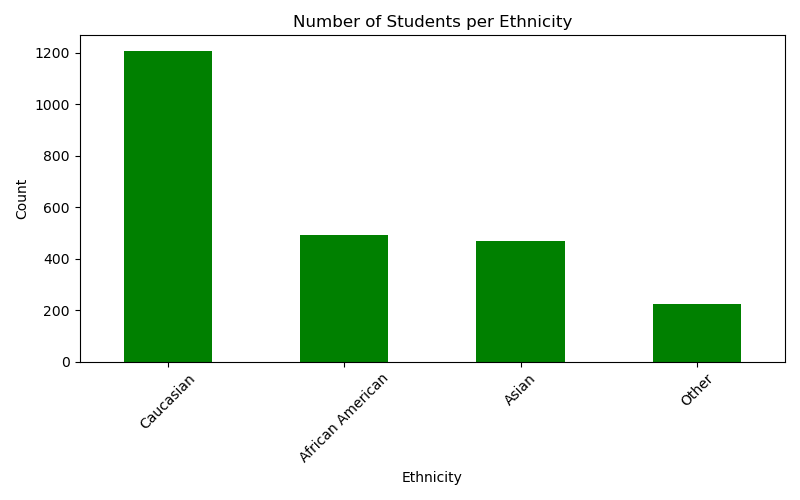
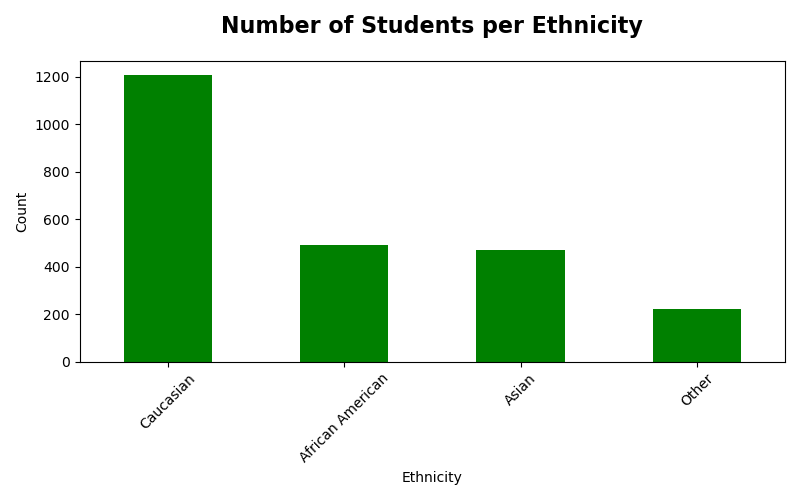
feat: Add correlation analysis (GPA vs. StudyTimeWeekly) scatter plot
- Implemented Section 6: Added the `GPA Vs Weekly study time of students` scatter plot visualization to analyze the correlation between study habits and performance.
- Refactor: Standardized all previous chart titles, setting `fontsize=16` and `fontweight='bold'` for visual consistency across all visualizations.

diff --git a/student_data_analysis.py b/student_data_analysis.py
@@ -90,7 +90,7 @@ print(ethnicity_counts)
 # Bar plot of ethnicity counts
 plt.figure(figsize=(8,5))
 ethnicity_counts.plot(kind='bar', color='green')
-plt.title("Number of Students per Ethnicity")
+plt.title("Number of Students per Ethnicity", fontsize=16, fontweight='bold', pad=20)
 plt.xlabel("Ethnicity")
 plt.ylabel("Count")
 plt.xticks(rotation=45)
@@ -121,7 +121,7 @@ fig, ax = plt.subplots(figsize=(10, 6))
 count_data.plot(kind='bar', ax=ax, width=0.8, color=custom_colors)
 
 # Customization and Visualization
-ax.set_title('Number of Students by Ethnicity and Gender', fontsize=16, pad=20)
+ax.set_title('Number of Students by Ethnicity and Gender', fontsize=16, fontweight='bold', pad=20)
 ax.set_xlabel('Ethnicity', fontsize=12)
 ax.set_ylabel('Count', fontsize=12)
 
@@ -184,7 +184,7 @@ GPA_mean_unstacked.plot(kind='bar', ax=ax, width=0.8, color=custom_colors)
 # Labels and title
 ax.set_xlabel('Ethnicity')
 ax.set_ylabel('Average GPA')
-ax.set_title('Average GPA by Ethnicity and Gender')
+ax.set_title('Average GPA by Ethnicity and Gender', fontsize=16, fontweight='bold', pad=20)
 ax.legend(title='Gender')
 
 # Rotate X-axis labels for readability
@@ -215,10 +215,21 @@ plt.bar(
     color='#1f77b4'
 )
 
-plt.title('Distribution of Student Grade Classes (Percentage)', fontsize=16, fontweight='bold')
+plt.title('Distribution of Student Grade Classes (Percentage)', fontsize=16, fontweight='bold', pad=20)
 plt.xlabel('Grade Class', fontsize=13)
 plt.ylabel('Relative Frequency (Percentage)', fontsize=13)
 
 plt.grid(axis='y', linestyle='--', alpha=0.7)
 plt.show()
 
+# ---  SCATTER PLOT GPA Vs WEEKLY STUDY TIME ---
+
+x = df['StudyTimeWeekly']
+y = df['GPA']
+
+plt.scatter(x, y, color='red', s=10, marker='o')
+
+plt.xlabel('Weekly study time')
+plt.ylabel('GPA')
+plt.title('GPA Vs Weekly Study Time of students', fontsize=16, fontweight='bold', pad=20)
+plt.show()

diff --git a/README.md b/README.md
@@ -61,7 +61,6 @@ The data was corrected using the "Text to Columns" feature, specifying the dot a
 
 *Figure 1: Initial load of the raw CSV in Excel, showing formatting issues in numerical columns before correction.*
 
-
 ---
 
 ### 3.2. Categorical Variable Decoding (`Student_performance_data_visual_text.xlsx`)
@@ -209,6 +208,8 @@ The segmented data is visualized using a grouped bar chart.
 
 *Figure 5: Average GPA segmented by Ethnicity and Gender. This visualization highlights the performance differences across subgroups.*
 
+---
+
 ## 5. 📊 Grade Class Distribution (Histograms)
 
 This section visualizes the distribution of student performance across the five **GradeClass** categories ('A' to 'F'). The values are presented as **relative frequencies (percentages)**, providing a clear overview of the performance breakdown in the entire dataset.
@@ -218,4 +219,36 @@ The distribution reveals a strongly **left-skewed** profile, indicating that the
 
 The highest performance categories are significantly smaller, with **Grade B** at **11.2%** and **Grade A** representing only **4.6%** of the population. This initial view highlights a critical performance gap that requires deeper analysis into correlating factors such as weekly study time and parental education.
 
-![Figura 6 - Grade Class Distribution Bar Chart](assets/grade_class_distribution.png)
+![Figure 6 - Grade Class Distribution Bar Chart](assets/grade_class_distribution.png)
+
+---
+
+## 📉 6. Correlation Analysis: GPA vs. Weekly Study Time
+
+This section analyzes the relationship between the continuous variable **Weekly Study Time** (`StudyTimeWeekly`) and the primary academic performance metric, the **Grade Point Average** (`GPA`).
+
+### Scatter Plot Visualization: `GPA Vs Weekly study time of students`
+
+![Figure 7 - GPA Vs Weekly Study Time scatter plot](assets/GPA_Vs_Weekly_Study_Time_scatter_plot.png)
+
+*Figure 7: Scatter plot showing the distribution of student GPA scores relative to their reported weekly study time.*
+
+---
+
+### 6.1. Findings and Interpretation
+
+The analysis of the scatter plot reveals a crucial insight regarding academic performance in this dataset:
+
+There is **no clear positive correlation** between the amount of time a student spends studying weekly and their final Grade Point Average. The dispersion of the data points is high, indicating that even students who study many hours can obtain low GPAs.
+
+The fact that the scatter plot does not show a distinct upward trend (and shows several students with high study time and low GPA) strongly suggests that **weekly study time is not the single, determining factor** of academic performance in this specific dataset.
+
+### 6.2. ❓ Possible Causes for Low GPA Despite High Study Time
+
+The observation that students invest significant time in studying yet yield poor results suggests that other variables are playing a more influential role. Here are the possible contributing factors:
+
+* **Quality of Study vs. Quantity:** The `StudyTimeWeekly` feature measures the **quantity** of hours dedicated to studying, not the **effectiveness** or **quality** of that time. A student might study 20 hours a week inefficiently, while another studies 10 hours with targeted focus.
+* **Systemic Factors and Support (Reverse Causality):**
+    * **Tutoring** (`Tutoring_Decoded`): A high study time may be an **effect**, not a cause. The student might be devoting many hours to study **because they are struggling** academically and are desperately trying to catch up. The low GPA is, in this case, the reason for the high study time, not the reverse.
+    * **Parental Education** (`Education_Decoded`): The level of support, guidance, or preparation that parents can provide can influence the effectiveness of the study efforts.
+* **The Weight of the 'F' Grade (50.7%):** As previously observed in Section 5, over half of the student body falls into the 'F' grade class. It is likely that a large portion of these struggling students is dedicating substantial hours in a desperate attempt to pass their courses, but without success due to the systemic or quality-related issues listed above.
